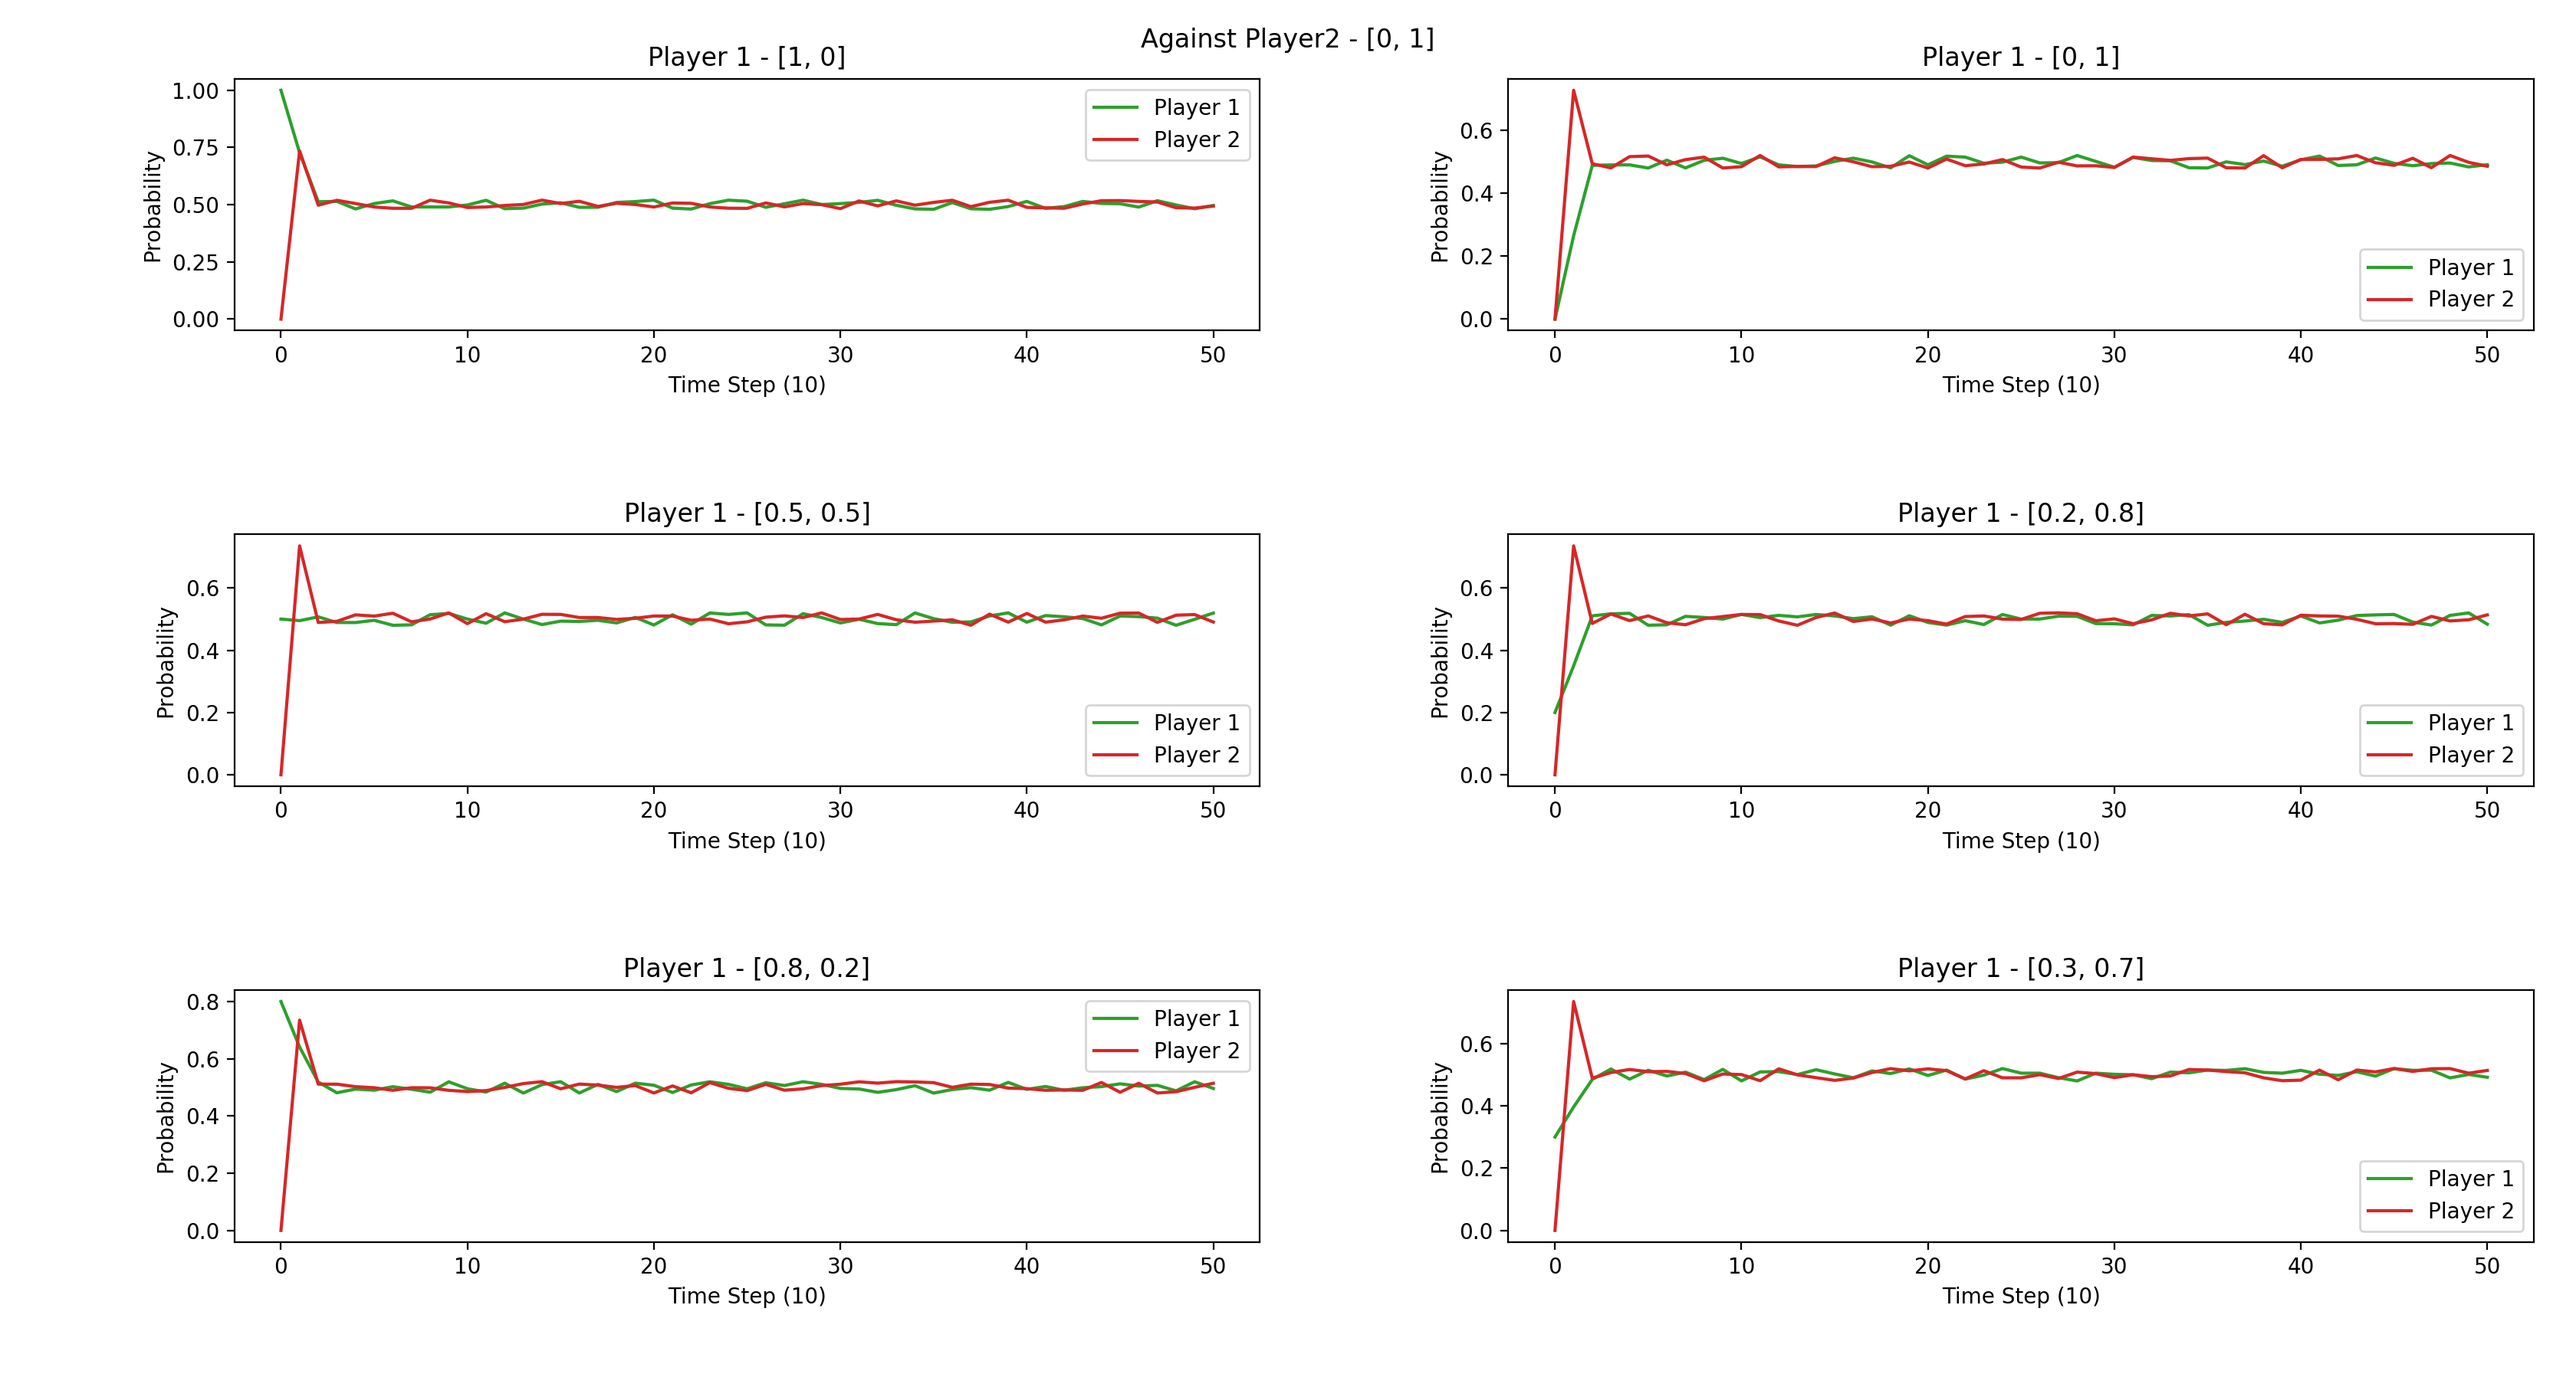
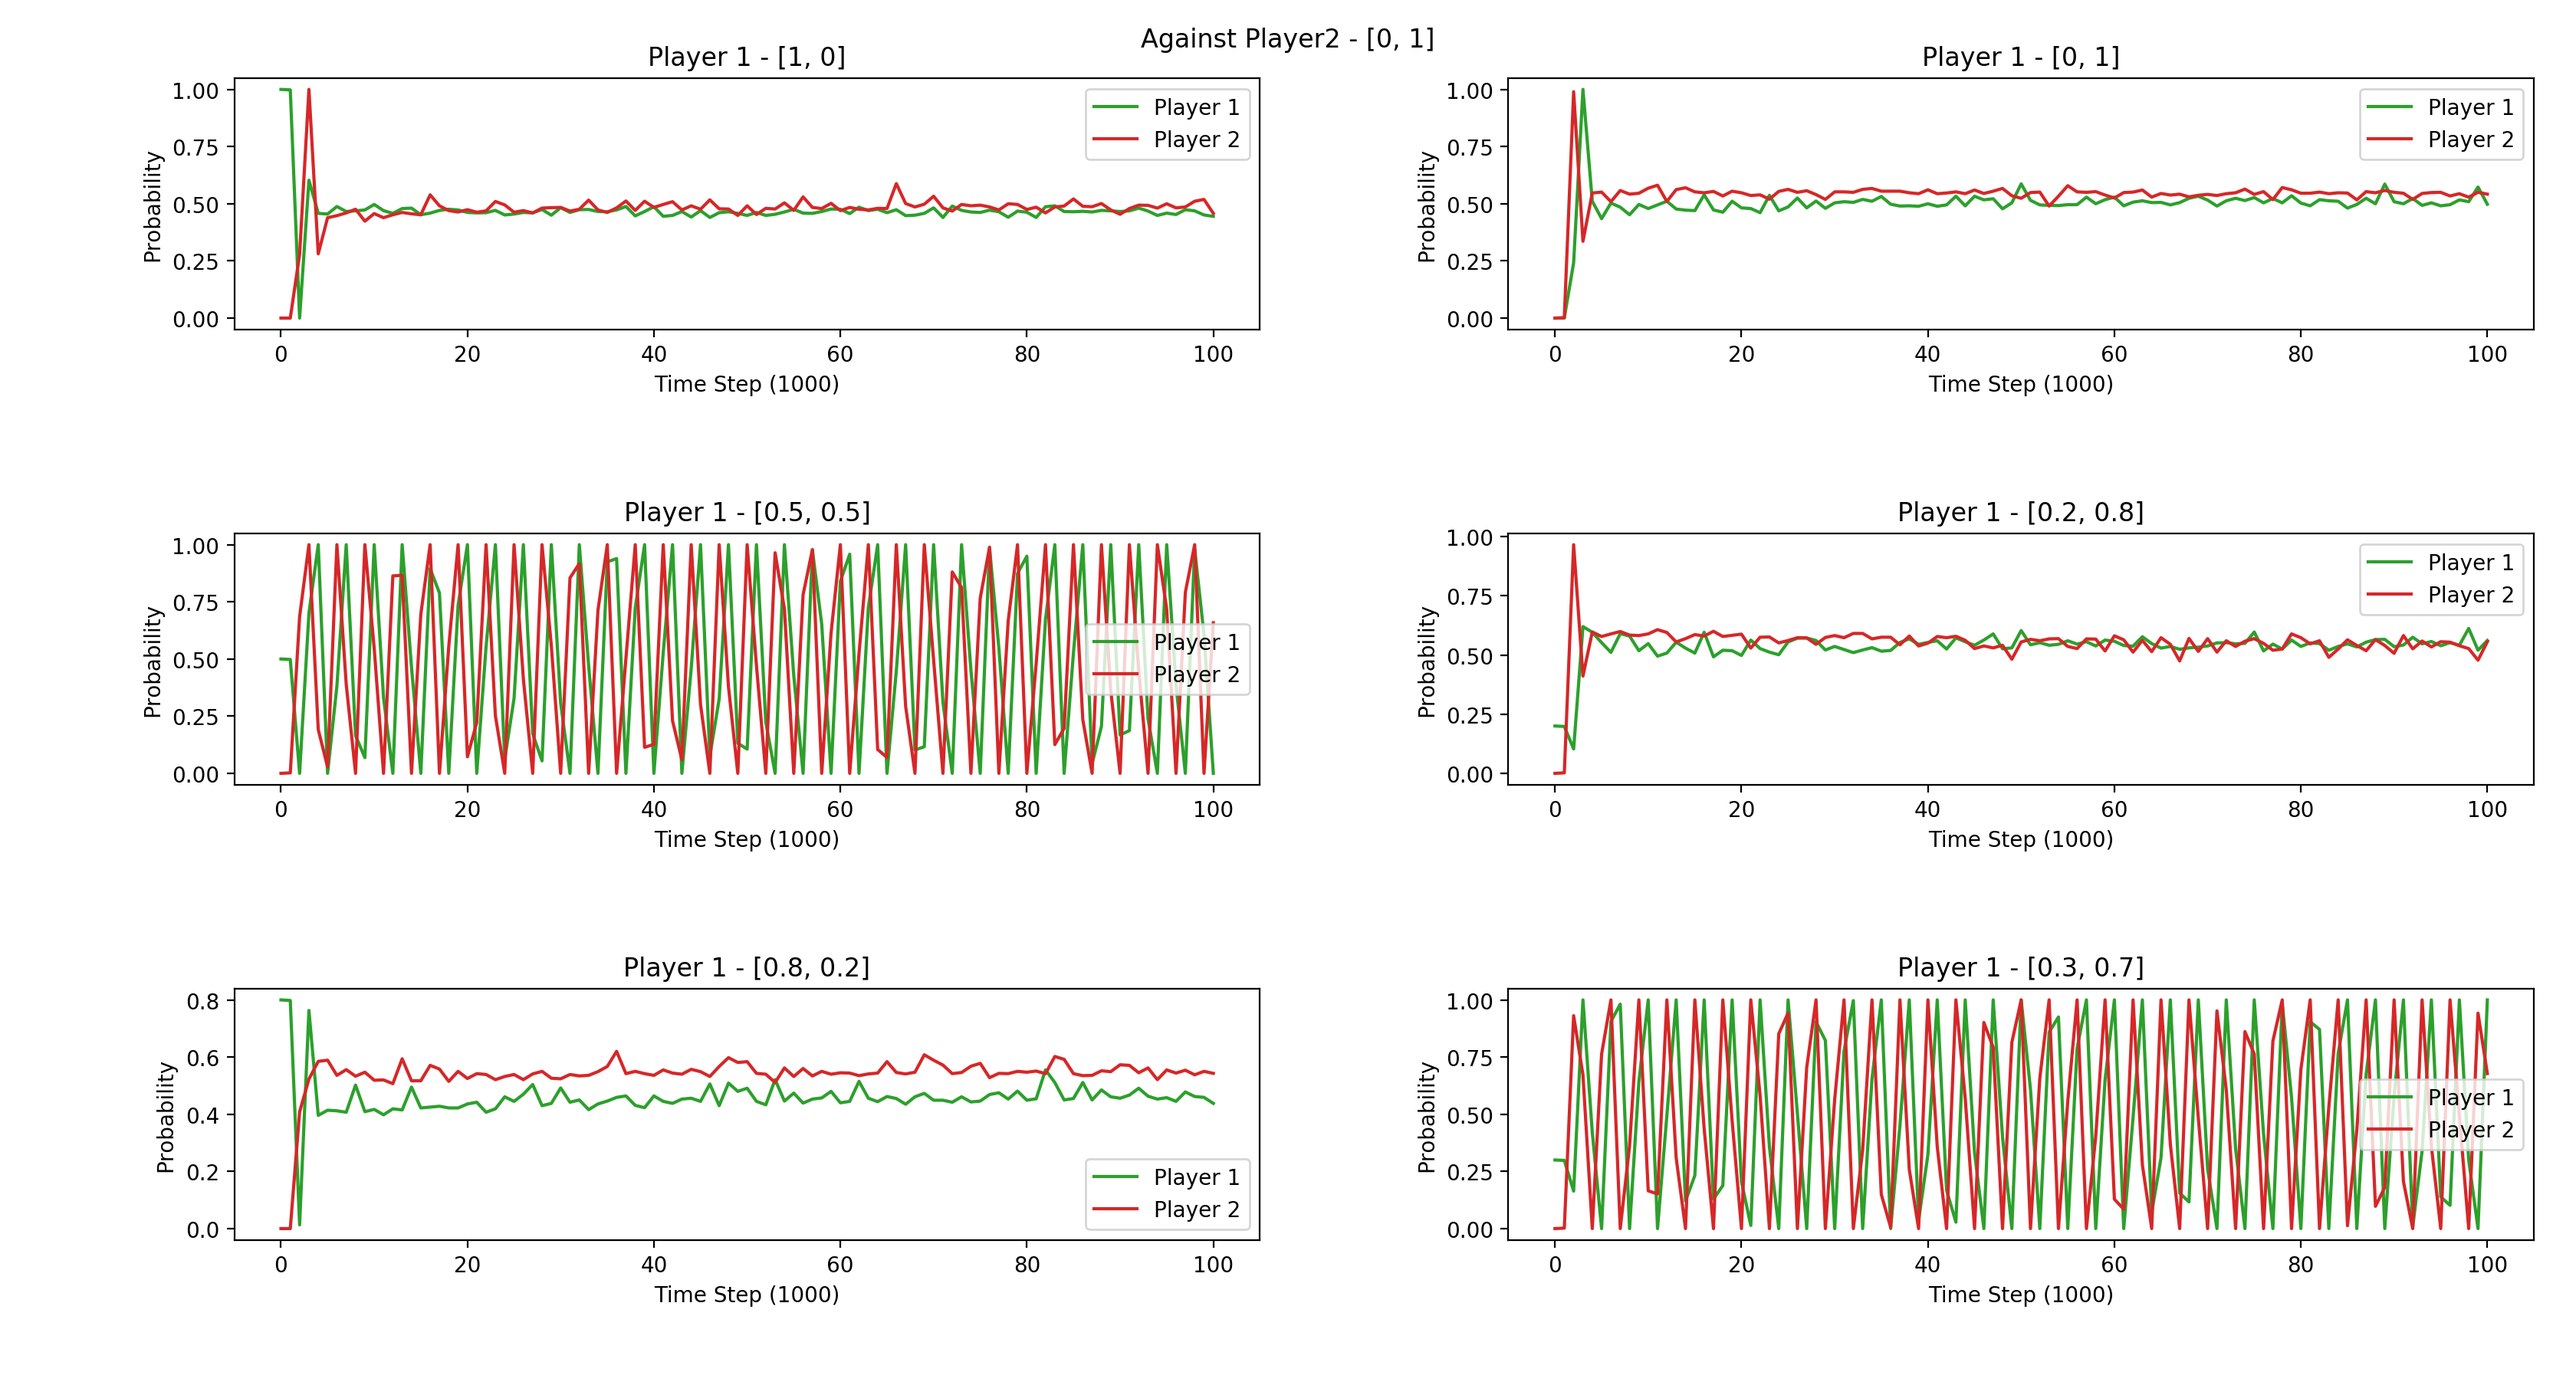
Update result

diff --git a/matchingPennies.py b/matchingPennies.py
@@ -115,7 +115,7 @@ def test_train(init_policy_p1, init_policy_p2, save_step=1000, epoch=100000):
       else:
           p2.update_policy(lr_l)
       
-      if i % 1000 == 0:
+      if i % 10000 == 0:
           print("At {}".format(i))
       if i % save_step == 0:
           p1_prob_tracker.append(p1.policy[0])

diff --git a/README.md b/README.md
@@ -1,18 +1,29 @@
 # Win-or-Learn-Fast
 Implementation for the paper "Multiagent Learning Using a Variable Learning Rate"
 
-## Result 
-We test the performance of agent by making it play against itself, but with difference initinalization of the initial policy. All agent converges to near optimal strategy ([0.5, 0.5]).
+## Result
 
-### Against [0, 1] for 500 iterations  
+### Matching Pennies
+We test the performance of agent by making it play against itself, but with difference initialization of the initial policy.
+
+#### Against [0, 1] for 100,000 iterations  
+Some converges to an optimal policy.  
 
 ![alt-text](img/fig1.png)
 
 | Player 1 init Policy | Final Policy (player1/player2)|
 | ------------- | ------------- |
-| (1.0, 0.0) | (0.48754216, 0.51245784) (0.48110016, 0.51889984) |
-| (0.0, 1.0) | (0.4912146, 0.5087854) (0.48748886, 0.51251114) |
-| (0.5, 0.5) | (0.51986153, 0.48013847) (0.4900016, 0.5099984) |
-| (0.2, 0.8) | (0.51948208, 0.48051792) (0.48502755, 0.51497245) |
-| (0.8, 0.2) | (0.48034304, 0.51965696) (0.48213117, 0.51786883) |
-| (0.3, 0.7) | (0.48235767, 0.51764233) (0.49516762, 0.50483238) |
+| (1.0, 0.0) |(0.4650000000000004, 0.5349999999999996) (0.5930030090069373, 0.40699699099306275)|
+| (0.0, 1.0) |(0.5099999999999996, 0.49000000000000044) (0.5390000000000005, 0.4609999999999995)|
+| (0.5, 0.5) |(0.505, 0.495) (0.5860010030039995, 0.4139989969960005)|
+| (0.2, 0.8) |(0.4922938633542938, 0.5077061366457062) (0.5089999999999996, 0.49100000000000044)|
+| (0.8, 0.2) |(0.18331535524490944, 0.8166846447550906) (0.0, 1.0)|
+| (0.3, 0.7) |(0.5064423489303821, 0.4935576510696179) (0.49000000000000044, 0.5099999999999996)|
+
+### Prisoner's Dilemma
+Same setting as the matching pennies. Action at position 0 means defect, and at position 1 means cooperate.
+
+#### Against [0, 1] for 100,000 iterations
+All the test cases are the same, and all converges to Nash Equilibrium(all defect).
+
+![alt-text](img/fig2.png)
